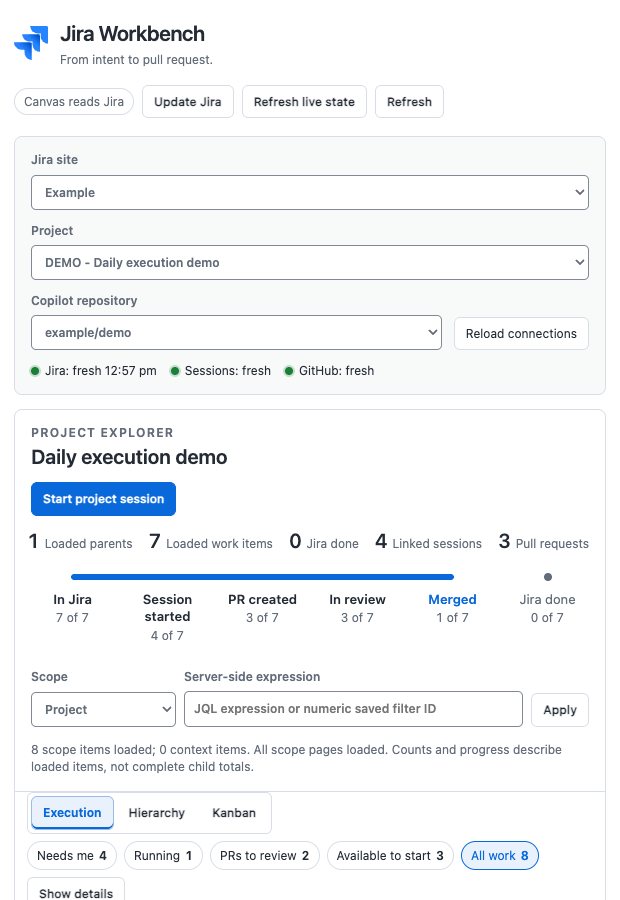
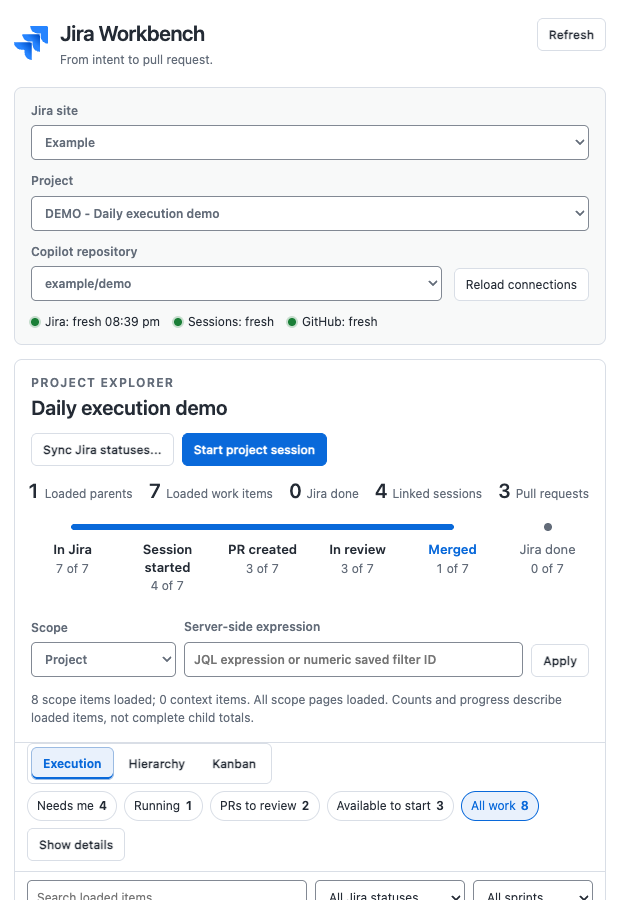
Simplify header actions: one Refresh, clickable freshness statuses (#43)
* Simplify header actions: one Refresh, clickable freshness statuses

Remove the 'Canvas reads Jira' label (it looked like a disabled button) and the
'Refresh live state' button, which was a subset of Refresh. The Jira, Sessions
and GitHub freshness statuses in the connection bar are now buttons that
re-read that one source. 'Update Jira' becomes 'Sync Jira statuses...' and
moves next to 'Start project session', with the other actions that start
sessions. Release 2.5.0.

* Count session-reported PRs as needing the GitHub source

A session poll records a PR on the session before GitHub verifies it, leaving
trace.prs empty. The GitHub freshness chip then read 'not needed' and was
disabled, blocking the GitHub-only refresh that would verify the PR.

---------

diff --git a/com.github.copilot/extensions/jira-workbench/ui/index.html b/com.github.copilot/extensions/jira-workbench/ui/index.html
@@ -10,7 +10,7 @@
 <body>
   <header class="topbar">
     <div class="brand"><svg class="brand-icon" viewBox="0 0 24 24" aria-hidden="true" focusable="false"><defs><linearGradient id="jira-a" x1="98%" y1="0%" x2="58%" y2="40%"><stop offset="18%" stop-color="#0052CC"/><stop offset="100%" stop-color="#2684FF"/></linearGradient><linearGradient id="jira-b" x1="100%" y1="0%" x2="55%" y2="44%"><stop offset="18%" stop-color="#0052CC"/><stop offset="100%" stop-color="#2684FF"/></linearGradient></defs><path fill="#2684FF" d="M23.013 0H11.455a5.215 5.215 0 0 0 5.215 5.215h2.129v2.057A5.215 5.215 0 0 0 24 12.483V1.005A1.001 1.001 0 0 0 23.013 0Z"/><path fill="url(#jira-a)" d="M17.294 5.757H5.736a5.215 5.215 0 0 0 5.215 5.214h2.129v2.058a5.218 5.218 0 0 0 5.215 5.214V6.758a1.001 1.001 0 0 0-1.001-1.001z"/><path fill="url(#jira-b)" d="M11.571 11.513H0a5.218 5.218 0 0 0 5.232 5.215h2.13v2.057A5.215 5.215 0 0 0 12.575 24V12.518a1.005 1.005 0 0 0-1.005-1.005z"/></svg><div><h1>Jira Workbench</h1><p>From intent to pull request.</p></div></div>
-    <div class="header-actions"><span class="readonly" title="The canvas only reads Jira. Status changes are made by the Copilot sessions it launches.">Canvas reads Jira</span><button id="sync-jira" title="Start one Copilot session that checks every issue's Jira status against linked work and fixes wrong statuses">Update Jira</button><button id="refresh-execution">Refresh live state</button><button id="refresh" title="Refresh Jira, then live sessions and GitHub evidence">Refresh</button></div>
+    <div class="header-actions"><button id="refresh" title="Re-read Jira, then linked Copilot sessions and GitHub pull requests">Refresh</button></div>
   </header>
   <section class="connection-bar" aria-label="Project selection">
     <label>Jira site<select id="site"><option value="">Connect to Jira</option></select></label>
@@ -18,7 +18,7 @@
     <span class="connection-arrow" aria-hidden="true">&rarr;</span>
     <label class="repo-label">Copilot repository<select id="repository"><option value="">Choose repository for sessions</option></select></label>
     <button id="connections" title="Reload sites and repository projects">Reload connections</button>
-    <div class="source-freshness" role="group" aria-label="Project source freshness"><span id="freshness" class="source" data-tone="idle" tabindex="0" role="note">Jira: not loaded</span><span id="session-freshness" class="source" data-tone="idle" tabindex="0" role="note">Sessions: not needed</span><span id="github-freshness" class="source" data-tone="idle" tabindex="0" role="note">GitHub: not needed</span></div>
+    <div class="source-freshness" role="group" aria-label="Project source freshness"><button id="freshness" class="source" data-tone="idle">Jira: not loaded</button><button id="session-freshness" class="source" data-tone="idle">Sessions: not needed</button><button id="github-freshness" class="source" data-tone="idle">GitHub: not needed</button></div>
   </section>
   <div id="notice" role="status" aria-live="polite" aria-atomic="false" aria-relevant="additions text" tabindex="-1"></div>
   <div id="connection-status" role="status" aria-live="polite" hidden></div>
@@ -43,7 +43,7 @@
   <p id="retry-time" hidden></p>
   <main id="workbench">
     <section class="workspace">
-      <div class="workspace-heading"><div><div class="eyebrow">PROJECT EXPLORER</div><h2><button id="project-title" class="project-title-action" title="Inspect project scope" disabled>Your work, connected.</button></h2></div><button id="project-start" class="primary" disabled>Start project session</button></div>
+      <div class="workspace-heading"><div><div class="eyebrow">PROJECT EXPLORER</div><h2><button id="project-title" class="project-title-action" title="Inspect project scope" disabled>Your work, connected.</button></h2></div><div class="heading-actions"><button id="sync-jira" title="Start one Copilot session that checks every issue's Jira status against linked work and fixes wrong statuses. The canvas itself only reads Jira." disabled>Sync Jira statuses...</button><button id="project-start" class="primary" disabled>Start project session</button></div></div>
       <div id="metrics" class="metrics"></div>
       <ol id="progress-tracker" class="progress-tracker" aria-label="Work item progress across the project" hidden></ol>
       <section class="scope-controls" aria-label="Working scope">
@@ -88,14 +88,14 @@
     <div class="dialog-actions"><button id="cancel-launch">Cancel</button><button id="review-changes" disabled>Review changes</button><button id="confirm-launch" class="primary" disabled>Start Plan session</button></div>
   </dialog>
   <dialog id="sync-dialog" aria-labelledby="sync-title">
-    <div class="dialog-heading"><div class="eyebrow">UPDATE JIRA</div><h2 id="sync-title">Sync Jira statuses with the work</h2></div>
+    <div class="dialog-heading"><div class="eyebrow">SYNC JIRA STATUSES</div><h2 id="sync-title">Sync Jira statuses with the work</h2></div>
     <p>Starts one Copilot session in <strong id="sync-repo"></strong> that checks every issue in <strong id="sync-project"></strong> against linked sessions, pull requests, branches and commits, then moves issues whose status is wrong.</p>
     <ul>
       <li>Status transitions only: no field edits, comments, assignments, sprint changes or new issues.</li>
       <li>Done issues are never reopened. Ambiguous cases are reported, not changed.</li>
       <li>The session ends with a summary table of every issue it checked.</li>
     </ul>
-    <div class="safety-note">The session decides what to change. Review its summary in the session afterwards.</div>
+    <div class="safety-note">The canvas itself only reads Jira; this session makes the changes and decides what to change. Review its summary in the session afterwards.</div>
     <div class="dialog-actions"><button id="cancel-sync">Cancel</button><button id="confirm-sync" class="primary">Start sync session</button></div>
   </dialog>
 </body>

diff --git a/com.github.copilot/extensions/jira-workbench/ui/style.css b/com.github.copilot/extensions/jira-workbench/ui/style.css
@@ -48,7 +48,6 @@ code { font-family: var(--font-mono, ui-monospace, monospace); font-size: 12px; 
 .brand p { font-size: 12px; color: var(--muted); margin: 3px 0 0; }
 .brand-icon { width: 34px; height: 34px; flex-shrink: 0; }
 .header-actions { display: flex; align-items: center; gap: 8px; flex-wrap: wrap; justify-content: flex-end; }
-.readonly { font-size: 12px; color: var(--muted); border: 1px solid var(--border); border-radius: 20px; padding: 4px 9px; white-space: nowrap; }
 .connection-bar { margin: 0 28px 22px; padding: 14px 16px; display: flex; flex-wrap: wrap; gap: 12px; align-items: end; border: 1px solid var(--border); border-radius: 8px; background: var(--tint); }
 label { display: flex; flex-direction: column; gap: 6px; font-size: 12px; color: var(--muted); font-weight: 600; }
 select, input, textarea { border: 1px solid var(--control-border); border-radius: 5px; padding: 8px 9px; background: var(--surface); font-size: 12px; }
@@ -86,6 +85,7 @@ main { display: grid; grid-template-columns: minmax(0, 1fr) 365px; margin: 0 28p
 .scope-controls p { flex-basis: 100%; font-size: 12px; }
 .workspace-heading { padding: 14px 16px 10px; display: flex; align-items: center; justify-content: space-between; gap: 12px; }
 .workspace-heading .eyebrow { margin-bottom: 3px; }
+.heading-actions { display: flex; align-items: center; gap: 8px; flex-wrap: wrap; }
 .project-title-action { border: 0; padding: 0; background: none; font: inherit; color: inherit; text-align: start; }
 .project-title-action:hover:not(:disabled) { background: none; color: var(--accent); text-decoration: underline; text-underline-offset: 4px; }
 .eyebrow { font-size: 12px; letter-spacing: .1em; color: var(--muted); margin-bottom: 7px; font-weight: 650; }
@@ -116,7 +116,12 @@ main { display: grid; grid-template-columns: minmax(0, 1fr) 365px; margin: 0 28p
 .filter-count { font-variant-numeric: tabular-nums; font-weight: 650; }
 .source-freshness { margin-left: auto; align-self: end; display: flex; flex-wrap: wrap; gap: 6px 14px; padding-bottom: 8px; font-size: 12px; color: var(--muted); }
 /* The block padding extends the hover area down to the tooltip, so the pointer can move onto it without a gap. */
-.source { position: relative; display: inline-flex; align-items: center; gap: 6px; white-space: nowrap; border-radius: 4px; cursor: help; padding-block: 6px; margin-block: -6px; }
+.source { position: relative; display: inline-flex; align-items: center; gap: 6px; white-space: nowrap; border: 0; border-radius: 4px; background: none; color: inherit; font-size: inherit; font-weight: inherit; padding: 6px 4px; margin: -6px -4px; cursor: pointer; }
+/* A chip is a refresh control, but it reads as status: no button chrome, and it is not dimmed while unavailable. */
+button.source:hover:not([aria-disabled="true"]) { background: none; border-color: transparent; text-decoration: underline; text-underline-offset: 3px; }
+button.source[aria-disabled="true"] { opacity: 1; cursor: help; }
+.source[aria-busy="true"]::before { animation: source-busy 1s ease-in-out infinite alternate; }
+@keyframes source-busy { to { opacity: .25; } }
 .source:focus-visible { outline: 2px solid var(--accent); outline-offset: -4px; }
 .source[data-detail]:not([data-detail=""]):is(:hover, :focus)::after { content: attr(data-detail); position: absolute; top: 100%; right: 0; z-index: 20; width: max-content; max-width: 280px; padding: 6px 8px; border: 1px solid var(--border); border-radius: 6px; background: var(--surface); color: var(--ink); box-shadow: 0 4px 12px #0002; white-space: pre-line; font-weight: 400; }
 .source.tip-dismissed::after { display: none; }
@@ -314,4 +319,4 @@ dialog::backdrop { background: #0006; }
   dialog { padding: 18px; }
   .dialog-actions { bottom: -18px; }
 }
-@media (prefers-reduced-motion: reduce) { * { scroll-behavior: auto; } }
+@media (prefers-reduced-motion: reduce) { * { scroll-behavior: auto; } .source[aria-busy="true"]::before { animation: none; opacity: .5; } }

diff --git a/com.github.copilot/extensions/jira-workbench/README.md b/com.github.copilot/extensions/jira-workbench/README.md
@@ -142,7 +142,7 @@ project, including context with no project metadata, cannot view, link or
 refresh traces using the selected project's mapping. Select its owning
 project to use those controls.
 
-Project-wide **Update Jira** gathers evidence from durable project links,
+Project-wide **Sync Jira statuses** gathers evidence from durable project links,
 independently of loaded scope pages. For up to 300 linked issues it uses the
 loaded rows and reads any that are not loaded (or not re-read) in
 project-constrained batches; it reports unreadable and over-limit identities as
@@ -316,7 +316,7 @@ outside any live region.
 
 ### Launch requests that never report back
 
-A confirmed launch, or an **Update Jira** sync, is stored as a queued request until
+A confirmed launch, or a **Sync Jira statuses** request, is stored as a queued request until
 the canvas-owning agent records the session it created (`record_session`) or the
 failure (`fail_request`). While it is queued it blocks a second launch for the same
 issue or project, so duplicate work is never started.
@@ -347,9 +347,9 @@ retry was sent), refused, or superseded.
   offers **Clear stuck request**. A late receipt still attaches; once cleared, the
   prompt's claim is refused. The panel also stops waiting for `/api/launch` and
   `/api/sync-jira` after 45 seconds. Error responses carry the `requestId`, and
-  **Update Jira** sends a panel-chosen `clientId` that is stored with its request,
-  so the panel matches its action to the stored request even after a timeout. An
-  Update Jira refused before any request was stored is kept by that `clientId` in
+  **Sync Jira statuses** sends a panel-chosen `clientId` that is stored with its request,
+  so the panel matches its action to the stored request even after a timeout. A
+  status sync refused before any request was stored is kept by that `clientId` in
   the state's `syncRejections`, so a panel that stopped waiting shows it as failed.
 - **Legacy requests.** Requests queued by an earlier version carry no claim, and
   their late receipts are still accepted.
@@ -370,7 +370,7 @@ the request becomes **Launch outcome unknown**. Expiry is worked out each time t
 state is read, so it needs no timer and no write. An expired request:
 
 - moves from **Running** to **Needs me**;
-- no longer blocks **Start**, the launch badge, or **Update Jira**;
+- no longer blocks **Start**, the launch badge, or **Sync Jira statuses**;
 - offers **Clear stuck request**, in the queue row and in the inspector.
 
 The launch may still have created a session that never reported back, so **check
@@ -401,13 +401,15 @@ the real session.
   `missing` and `missingSince`, and shown as "Session no longer exists". It is not
   a failed observation: it does not stale the sessions source or make sibling
   sessions uncertain. The panel's background session poll stops asking about it
-  after 3 misses; an explicit **Refresh**, **Refresh live state**, **Refresh
-  Sessions** or **Refresh trace** still checks, so a restored session returns. The
+  after 3 misses; an explicit **Refresh**, the **Sessions** freshness status,
+  **Refresh live state**, **Refresh Sessions** or **Refresh trace** still checks, so a restored session returns. The
   link itself is kept.
 
 The header's **Refresh** re-reads Jira, then the project's linked sessions and
-GitHub evidence. **Refresh live state** re-reads only the linked sessions and
-GitHub evidence. In the inspector, **Refresh trace** re-reads one item's sessions
+GitHub evidence. It is the header's only refresh. The connection bar's **Jira**,
+**Sessions** and **GitHub** freshness statuses are buttons that re-read that one
+source; a status whose source the project does not use yet ("not needed") is
+unavailable but stays focusable so its details remain readable. In the inspector, **Refresh trace** re-reads one item's sessions
 and PRs, and **Refresh Sessions** or **Refresh GitHub** re-reads that one source
 for the project's linked work. A queue row whose evidence is stale offers the
 matching refresh: **Refresh Jira** (Jira only), **Refresh live state**, or
@@ -467,7 +469,7 @@ stateDiagram-v2
 | `ready` | A Jira read worked | No polling. While a panel is open, one keepalive read every 4 minutes, so the runtime refreshes an expiring OAuth token before you hit it |
 | `signin` | The Atlassian sign-in expired, or the server reports `needs-auth` | Panel reads fail fast without reaching the runtime, and the panel shows **Sign in to Atlassian**. A probe answer of 401 or `needs-auth` makes no read at all. An unclear answer, such as Atlassian v2's 400, allows **at most one single-attempt verify read per backoff step** (5s, doubling to 5 minutes). Finishing sign-in (`mcp.oauth_completed`), an `authenticated` probe, or the server going from `needs-auth` to `connected` verifies at once. An explicit **Refresh** makes exactly one attempt |
 | `down` | The server failed, is stopped or disabled, none is configured, or reads keep failing | Keeps the last good data and keeps polling. A `failed` server is restarted at most 3 times, after 2s, 15s and 60s, and that budget is restored only after a Jira read works. `stopped` and `disabled` servers are left to you |
-| `standalone` | No Jira server is configured and the runtime offers none of the Copilot app's session tools (`list_repositories` or, on older app builds, `list_projects`; `get_sessions_status`; `get_session`): the panel is not running in an app session, as when it is opened from **Canvases** in the app's sidebar | Panel reads fail fast without reaching the runtime, and the panel shows the steps that connect it (open any Copilot session and ask it to open the jira-workbench canvas, with a **Copy prompt** button) instead of per-source errors and a next attempt time. The server refuses session work (launches, **Update Jira**, session and trace refreshes, linking, opening sessions and pull requests), so the panel never writes failed observations into the store that panels in real sessions share. Checks run once a minute; an MCP event or **Reload connections** checks at once |
+| `standalone` | No Jira server is configured and the runtime offers none of the Copilot app's session tools (`list_repositories` or, on older app builds, `list_projects`; `get_sessions_status`; `get_session`): the panel is not running in an app session, as when it is opened from **Canvases** in the app's sidebar | Panel reads fail fast without reaching the runtime, and the panel shows the steps that connect it (open any Copilot session and ask it to open the jira-workbench canvas, with a **Copy prompt** button) instead of per-source errors and a next attempt time. The server refuses session work (launches, **Sync Jira statuses**, session and trace refreshes, linking, opening sessions and pull requests), so the panel never writes failed observations into the store that panels in real sessions share. Checks run once a minute; an MCP event or **Reload connections** checks at once |
 
 While Jira is not `ready`, the supervisor polls `mcp.list` (about 4ms, no Jira
 call) every second for 30 seconds after any change, then every 2s, doubling to 60s
@@ -515,7 +517,7 @@ Every Copilot runtime call the extension makes is time-bounded:
 | Server restart (`mcp.restartServer`) | 30s |
 | Starting sign-in (`mcp.oauth.login`) | 30s |
 | Native navigation: tool list, then the navigation call or fallback prompt | 8s, then 30s |
-| Sending a launch or Update Jira prompt to the owning agent (`session.send`) | 30s |
+| Sending a launch or Sync Jira statuses prompt to the owning agent (`session.send`) | 30s |
 | Installed plugin list (`plugins.list`), for the update check | 5s |
 | Plugin update (`plugins.update`), for **Update & reload** | 120s |
 | Plugin or extension reload (`plugins.reload`, `extensions.reload`), after an update | 30s |
@@ -535,7 +537,7 @@ Session polling reads live state from one `get_sessions_status` call. A linked
 session is read in full with `get_session` only when it is missing from that
 list or listed without an activity, when its stored record has no name, branch or
 PR yet, or once a minute.
-**Refresh**, **Refresh live state** and **Refresh Sessions** read every linked
+**Refresh**, the **Sessions** status, **Refresh live state** and **Refresh Sessions** read every linked
 session in full. A session the host reports as deleted is no longer read by polls
 once it is confirmed missing. A poll that observes nothing new does not write
 `state.json`: the time of the check is kept in memory and shown in the panel,
@@ -575,8 +577,8 @@ GitHub reads are shared by every panel in the extension process. Each PR is read
 with one `gh pr view` per refresh, however many issues and sessions refer to it,
 and at most 4 `gh` processes run at once. The
 background refresh after you open or pick a project reuses a PR read from the last
-60 seconds; **Refresh**, **Refresh live state**, **Refresh GitHub** and **Refresh
-trace** always read GitHub again. Only the check fields the panel shows (name or
+60 seconds; **Refresh**, the **GitHub** status, **Refresh live state**, **Refresh
+GitHub** and **Refresh trace** always read GitHub again. Only the check fields the panel shows (name or
 context, conclusion, state and status) are stored.
 
 Freshness is source-specific. Session refreshes do not relabel old GitHub evidence
@@ -598,7 +600,7 @@ only emitted when the issue key and site ID pass strict format checks; project-l
 launches and malformed keys keep the session fully Jira read-only. The launching
 agent itself is never authorized to write to Jira.
 
-**Update Jira** is the second delegated write. After an explicit confirmation it
+**Sync Jira statuses** is the second delegated write. After an explicit confirmation it
 queues one `jira-sync` request on the project scope (subject to the same
 one-queued-request-per-scope rule; a request with no receipt after 15 minutes no
 longer counts) and launches one Autopilot session. The kickoff
@@ -795,5 +797,5 @@ verification artifacts.
   as **Launch outcome unknown** and can be cleared (see
   [Launch requests that never report back](#launch-requests-that-never-report-back)).
 - Jira editing, sprint management, unattended status synchronization, bulk agent
-  launches, and automatic PR merging are intentionally absent. **Update Jira**
+  launches, and automatic PR merging are intentionally absent. **Sync Jira statuses**
   runs only when you confirm it, as one session.

diff --git a/docs/guide.md b/docs/guide.md
@@ -36,9 +36,9 @@ writes no Smart Commit commands unless you tick **Smart Commit comment** in the
 brief, which lets it add one `KEY #comment` line to its final commit. See
 [Smart Commit comment](#smart-commit-comment).
 
-**Update Jira** (top right) is the only project-wide write, and it runs only
-after you confirm. It starts one Copilot session that checks every issue in the
-project against its linked sessions, pull requests, branches and commits, then
+**Sync Jira statuses...** (next to **Start project session**) is the only
+project-wide write, and it runs only after you confirm. It starts one Copilot
+session that checks every issue in the project against its linked sessions, pull requests, branches and commits, then
 moves any issue whose status is wrong. It changes only statuses, never reopens
 Done issues, and ends with a summary table. See
 [Keep Jira statuses accurate](#keep-jira-statuses-accurate).
@@ -201,7 +201,7 @@ acknowledged, and the session's kickoff says the descendant list is incomplete.
 A story's kickoff says the same about its subtasks, without an extra warning
 in the preview.
 
-**Update Jira** remains project-wide, not limited to the loaded scope. It
+**Sync Jira statuses** remains project-wide, not limited to the loaded scope. It
 includes durable session and PR links for up to 300 linked issues, reading
 from Jira any that are not loaded in the panel. Linked issues it cannot read,
 or that exceed the limit, are reported as omitted evidence for the sync session
@@ -210,8 +210,8 @@ most recently linked sessions and its 3 highest-numbered pull requests, and the
 kickoff states how many it left out. On projects with many linked issues, issues
 are dropped from the evidence until the session's instructions fit the 48 KB
 launch limit, and the kickoff counts them as omitted. If the project's workflow
-statuses alone are larger than that limit, Update Jira is refused and nothing is
-queued.
+statuses alone are larger than that limit, Sync Jira statuses is refused and
+nothing is queued.
 
 ---
 
@@ -362,7 +362,7 @@ dropped or the panel was closed), the item moves to **Needs me** and shows
 
 ![A launch with no session receipt after 15 minutes, offering Clear stuck request](images/07-stuck-request.png)
 
-- It no longer blocks **Start** or **Update Jira**.
+- It no longer blocks **Start** or **Sync Jira statuses**.
 - **Check the project's sessions before starting again.** The launch may have
   created a session that never reported back.
 - To remove it, press **Clear stuck request**, then **Confirm clear** within a
@@ -440,7 +440,7 @@ Jira workflow status: To do statuses first, then In progress, then Done.
   pull requests. Select a card to open its details.
 - The board is read-only. Moving a card would change its Jira status, which the
   canvas never does. Status changes come from the sessions you launch and from
-  **Update Jira**.
+  **Sync Jira statuses**.
 - Search and the sprint filter hide cards. Choosing a status or a category in the
   status filter also hides the other columns.
 - When the columns do not fit, the board scrolls sideways.
@@ -476,13 +476,13 @@ Links are never inferred from similar titles or branch names.
 
 ### Refresh the right source
 
-Jira and GitHub data are snapshots, not live feeds, so each source has its own
-refresh button:
+Jira and GitHub data are snapshots, not live feeds. The panel re-checks linked
+sessions every few seconds by itself; everything else is re-read when you ask:
 
-| Button | Re-reads |
+| Control | Re-reads |
 | --- | --- |
 | **Refresh** (top right) | Jira, then sessions and GitHub for the project |
-| **Refresh live state** (top right) | Sessions and GitHub for the project |
+| **Jira**, **Sessions** or **GitHub** status (connection bar) | That one source, for the project |
 | **Refresh trace** (inspector) | Sessions and pull requests for this item |
 | **Refresh Sessions** / **Refresh GitHub** (inspector) | That one source, for the project's linked work |
 | **Refresh Jira** (on a queue row) | Jira only |
@@ -498,12 +498,15 @@ The connection bar shows a dot for each source:
 - **Grey**: not loaded or not needed.
 
 Hover over, tap, or tab to a dot for details. You can move the pointer onto the
-details to read them, and press Escape to hide them.
+details to read them, and press Escape to hide them. Click a status to re-read
+that source alone; a status for a source the project does not use yet (grey,
+"not needed") cannot be clicked.
 
 ### Keep Jira statuses accurate
 
 When Jira no longer matches the work (for example, a pull request merged but the
-issue still says To Do), click **Update Jira** in the header and confirm.
+issue still says To Do), click **Sync Jira statuses...** next to **Start project
+session** and confirm.
 
 It starts one Copilot session in the mapped repository. That session:
 
@@ -599,7 +602,7 @@ Then find the message you see:
 
 ## 11. What it does not do
 
-- **No Jira writes from the canvas.** The canvas never edits, transitions or comments on issues, never creates them, and never changes sprints. Status changes are delegated to sessions you launch: an issue session moves only its own issue to In Progress, and a confirmed **Update Jira** session may change statuses across the project. An issue session comments on its own issue only when you tick **Smart Commit comment**, and then only once, through its final commit.
+- **No Jira writes from the canvas.** The canvas never edits, transitions or comments on issues, never creates them, and never changes sprints. Status changes are delegated to sessions you launch: an issue session moves only its own issue to In Progress, and a confirmed **Sync Jira statuses** session may change statuses across the project. An issue session comments on its own issue only when you tick **Smart Commit comment**, and then only once, through its final commit.
 - **No fan-out.** One confirmed launch creates one session.
 - **No auto-merge or auto-approve.** Review actions open the real Copilot surface, and you decide.
 - **No pending action shown as finished.** A pending navigation is labeled as

diff --git a/README.md b/README.md
@@ -35,7 +35,7 @@ column.
 | **Kanban board** | Work items as cards in one column per Jira workflow status, with linked session and PR state on each card. Read-only: the canvas never moves an issue between statuses. |
 | **Bounded working scope** | Apply JQL or a saved Jira filter within your project. Read 100 items at a time, most recently updated first, with **Load more**, and keep referenced cross-project ancestors as context. Issues with linked sessions, PRs or pending requests always stay in view. **Search loaded items** stays local. |
 | **Per-project statuses** | The status filter lists each project's own Jira workflow statuses, grouped by category, including custom steps such as "PR Waiting" that no issue is in yet. |
-| **Read-only canvas** | The gateway allows only Jira reads. The canvas never edits, transitions or comments on issues, and never changes sprints. Status changes are delegated to sessions you launch: an issue session moves its issue to In Progress, and a confirmed **Update Jira** session corrects statuses across the project using that project's own workflow (for example "PR Waiting" for work in an open pull request). Issue sessions put the issue key in commits so Jira links them, and comment once through a Smart Commit only when you opt in. |
+| **Read-only canvas** | The gateway allows only Jira reads. The canvas never edits, transitions or comments on issues, and never changes sprints. Status changes are delegated to sessions you launch: an issue session moves its issue to In Progress, and a confirmed **Sync Jira statuses** session corrects statuses across the project using that project's own workflow (for example "PR Waiting" for work in an open pull request). Issue sessions put the issue key in commits so Jira links them, and comment once through a Smart Commit only when you opt in. |
 | **No dependencies** | Plain JavaScript. It installs as a plugin or a folder copy and needs no build step. |
 
 ## Quickstart
@@ -139,7 +139,7 @@ states. None of them means the work is done.
 
 ## What it does not do
 
-- **No Jira writes from the canvas.** The canvas never edits, transitions or comments on issues, never creates them, and never changes sprints. Status changes are delegated to sessions you launch. An issue session moves only its own issue to In Progress when it starts implementing (after plan approval in Plan mode). **Update Jira** starts one confirmed session that makes status-only fixes across the project, picks target statuses from the project's own workflow, and never reopens Done issues. An issue session puts its issue key in its branch, commits and pull request title, and writes one Smart Commit `#comment` in its final commit only when you tick **Smart Commit comment** in the brief. These limits are set by the session's prompt and are not technically enforced; see [Security](SECURITY.md).
+- **No Jira writes from the canvas.** The canvas never edits, transitions or comments on issues, never creates them, and never changes sprints. Status changes are delegated to sessions you launch. An issue session moves only its own issue to In Progress when it starts implementing (after plan approval in Plan mode). **Sync Jira statuses** starts one confirmed session that makes status-only fixes across the project, picks target statuses from the project's own workflow, and never reopens Done issues. An issue session puts its issue key in its branch, commits and pull request title, and writes one Smart Commit `#comment` in its final commit only when you tick **Smart Commit comment** in the brief. These limits are set by the session's prompt and are not technically enforced; see [Security](SECURITY.md).
 - **No fan-out.** One confirmed launch creates exactly one session.
 - **No auto-merge or auto-approve.** Review actions open the real Copilot surface, and you decide.
 - **No pending action shown as finished.** A pending request is labeled as pending. A launch whose prompt Copilot did not confirm, or with no session receipt after 15 minutes, is marked as unknown and can be cleared; nothing is retried automatically.

diff --git a/verification/README.md b/verification/README.md
@@ -46,7 +46,7 @@ Starts the extension's own server against fake Jira, Copilot, and GitHub service
 a temporary state directory, then drives the full workflow: the execution queue,
 native navigation acknowledgement, planning with warnings, implementation
 acknowledgement, edit invalidation, the immutable launch snapshot, lost-response
-reconciliation, the Update Jira confirmation, an expired launch request (it never
+reconciliation, the Sync Jira statuses confirmation, an expired launch request (it never
 blocks Start, and clears only on a confirming second click), the default mode of
 the inspector's Start button, one Jira freshness label in the bar and the
 inspector, parent-key search in the hierarchy, project-scoped restoration, the
